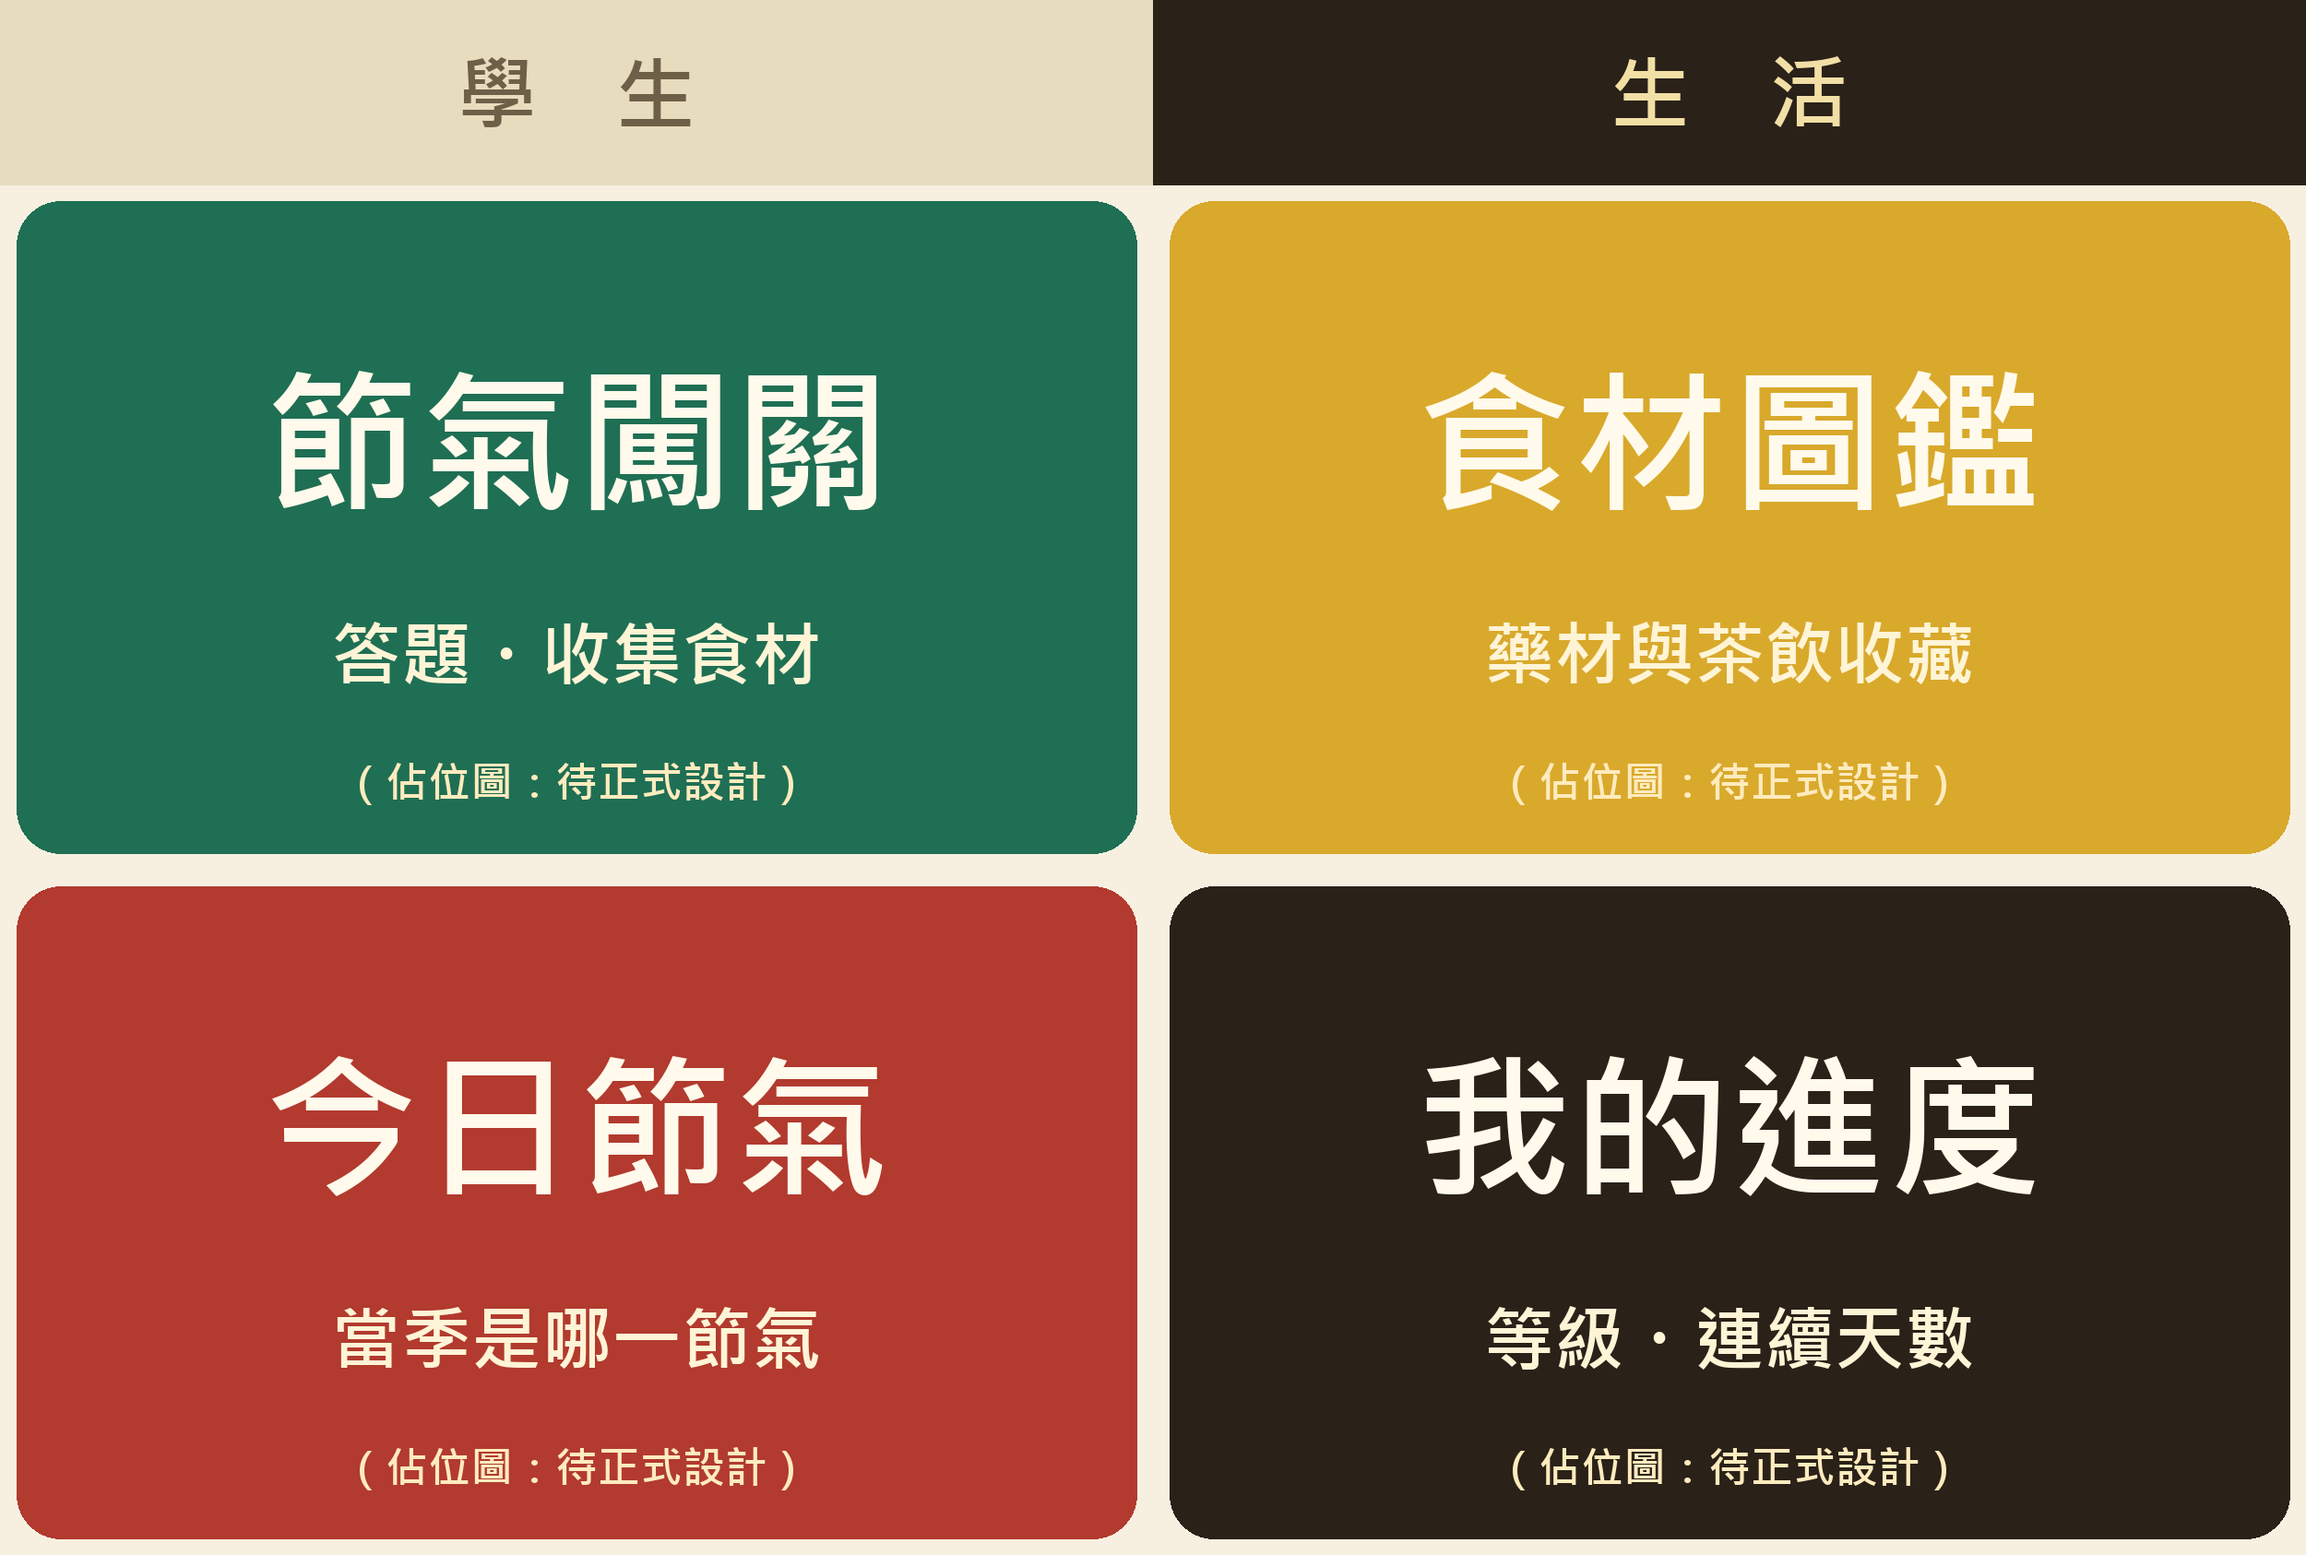
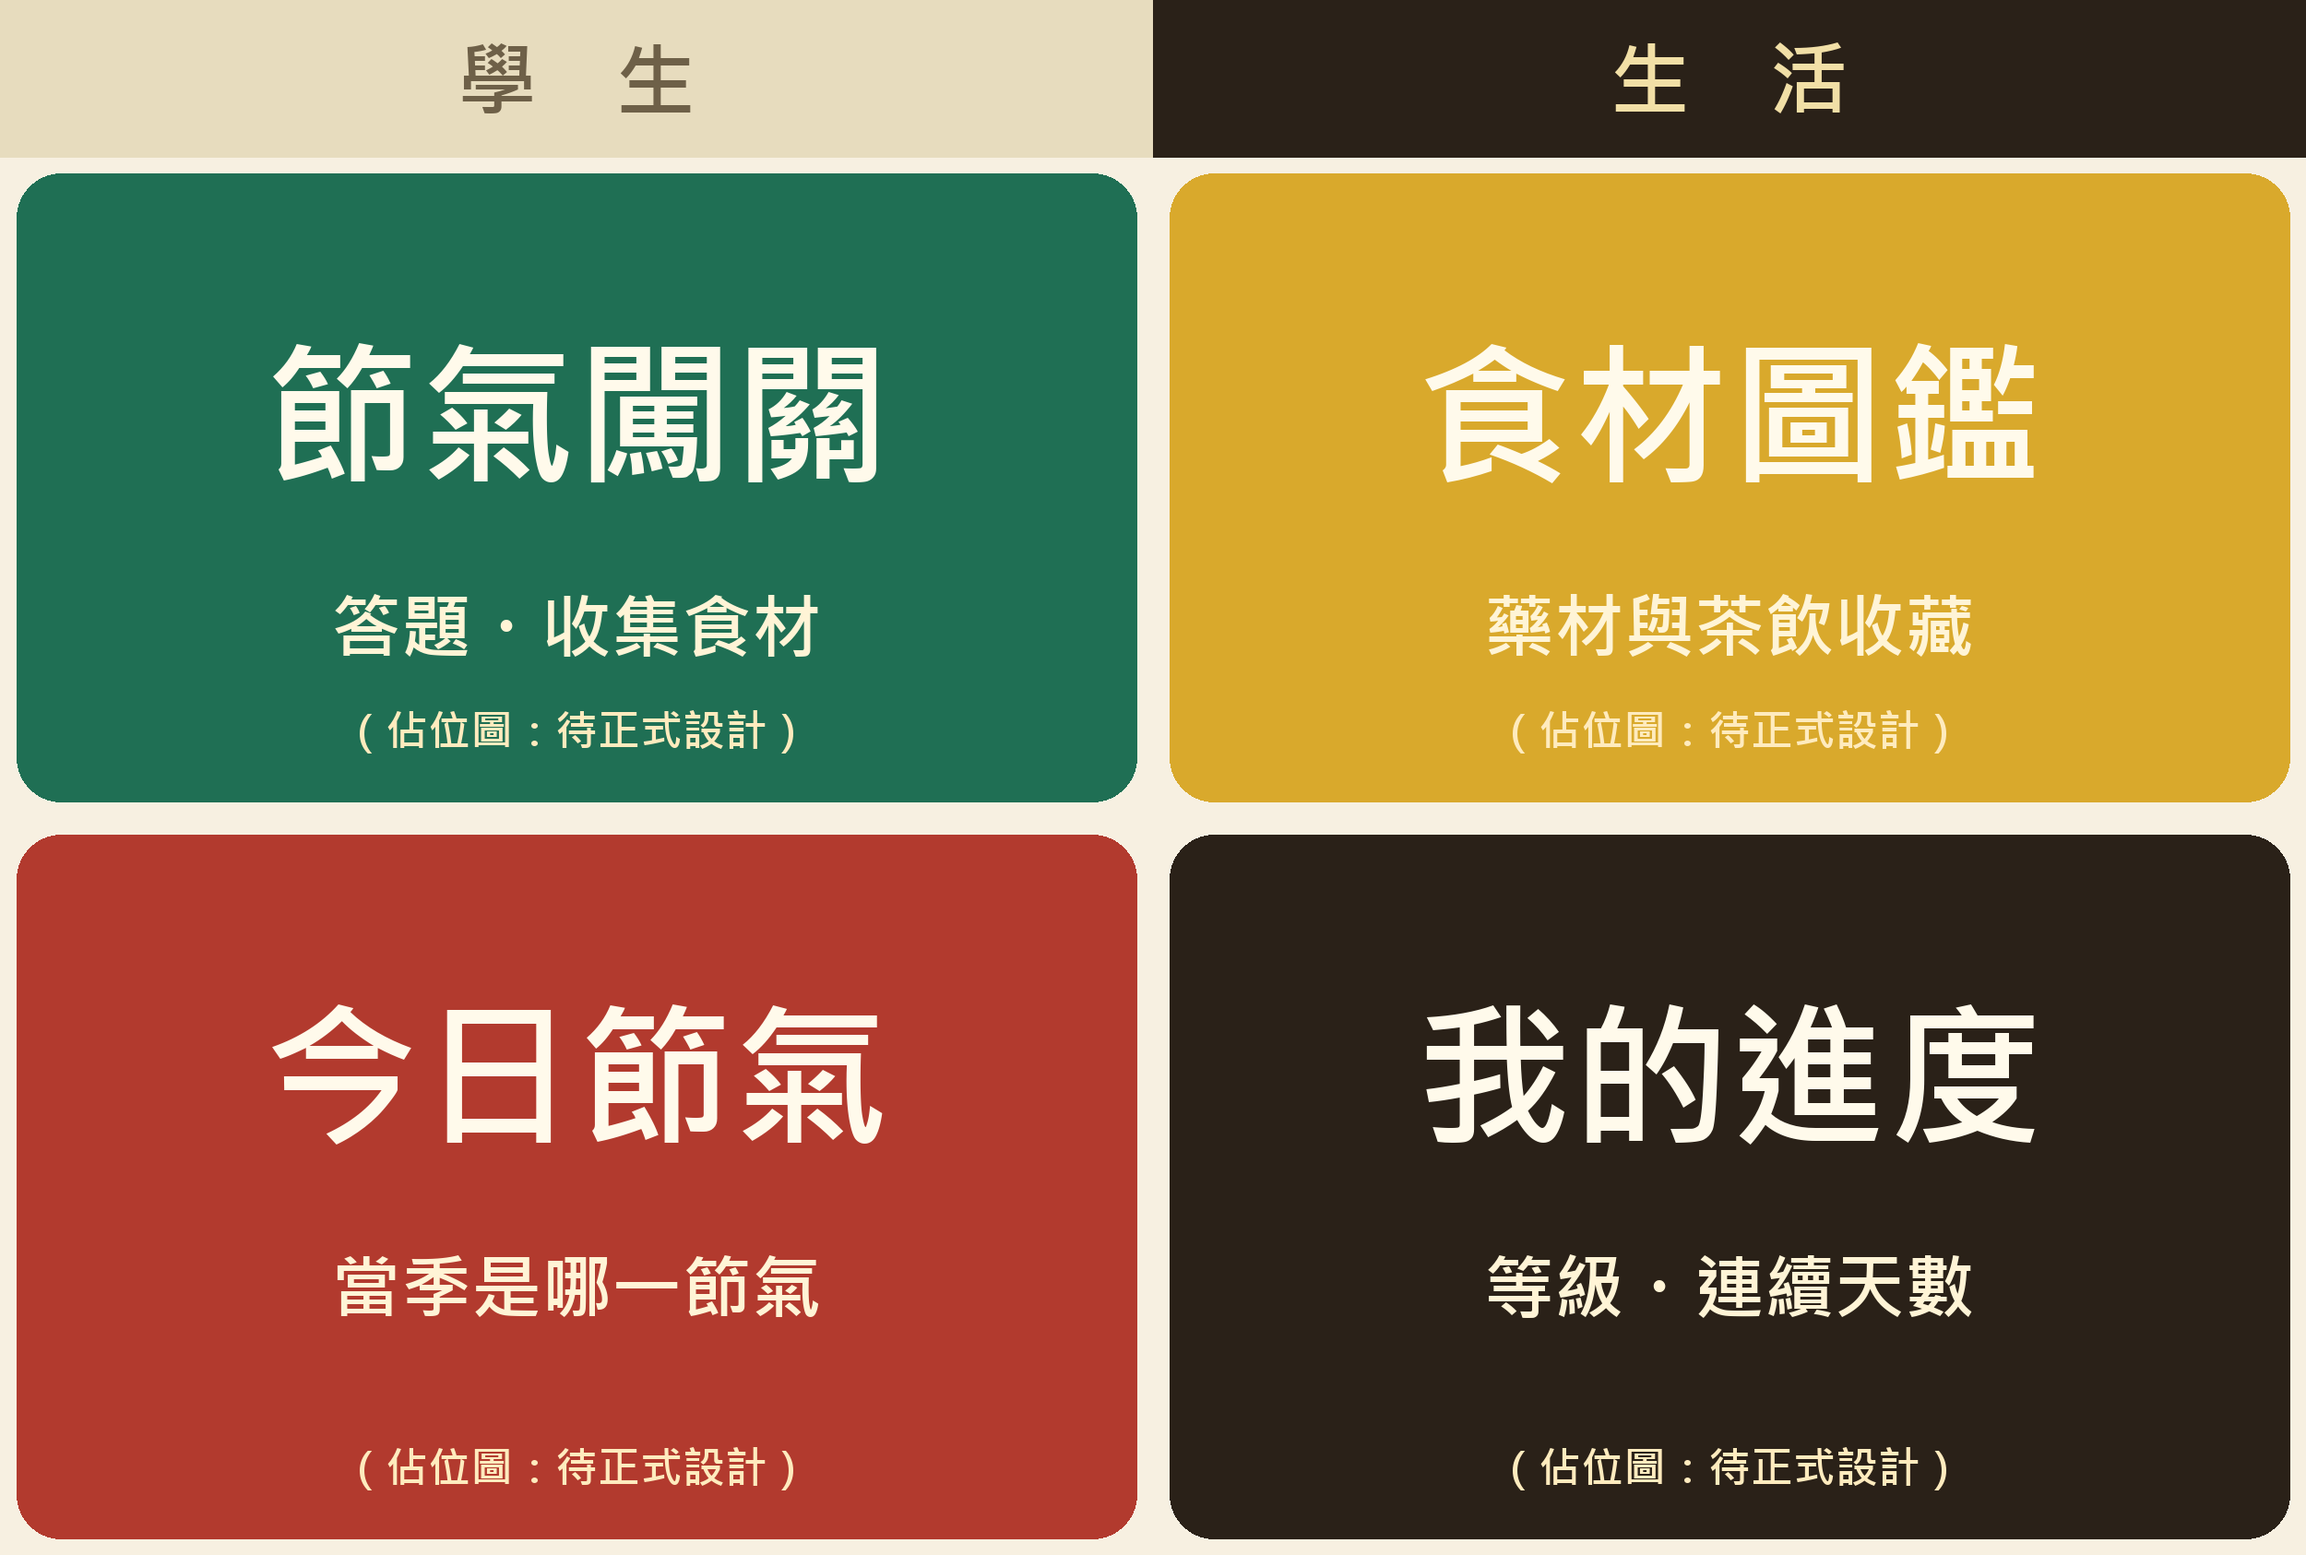
feat: 正式版 Rich Menu 圖（生活版／學生版）與合成腳本
- 新增 scripts/compose_rich_menu.py：把 AI 生成的無字背景圖縮放到 2500x1686、疊上中文標題，輸出 JPEG（< 1MB）
- setup_rich_menu_tabs.js：優先使用 .jpg 並檢查 1MB 上限；觸控範圍改為與正式圖一致（分頁列 0–170、兩列分界 887）
- 佔位圖產生器同步新版面；加入兩張背景原圖與成品

diff --git a/scripts/setup_rich_menu_tabs.js b/scripts/setup_rich_menu_tabs.js
@@ -9,8 +9,8 @@
  * 不想動到正式帳號時，先用 `--dry-run` 看會做什麼：node scripts/setup_rich_menu_tabs.js --dry-run
  *
  * 版面（2500×1686，需與 make_rich_menu_placeholders.py 一致）：
- *   y 0–200   分頁列：左半「學生」、右半「生活」
- *   y 200–1686 2×2 按鈕，每格 1250×743
+ *   y 0–170   分頁列：左半「學生」、右半「生活」
+ *   y 170–1686 2×2 按鈕：第一列 y 170–887、第二列 y 887–1686，每格寬 1250
  */
 const line = require('@line/bot-sdk');
 const dotenv = require('dotenv');
@@ -35,12 +35,15 @@ const LIFF = {
 
 const ALIAS = { life: 'richmenu-alias-life', student: 'richmenu-alias-student' };
 const NAME = { life: 'GM_life', student: 'GM_student' };
-const W = 2500, H = 1686, TAB_H = 200, CW = W / 2, CH = (H - TAB_H) / 2;
+// 觸控範圍需與 scripts/compose_rich_menu.py 的版面一致：分頁列 y 0–170；第一列 y 170–887、第二列 y 887–1686
+const W = 2500, H = 1686, TAB_H = 170, ROW_SPLIT = 887, CW = W / 2;
+const ROWS = [{ y: TAB_H, h: ROW_SPLIT - TAB_H }, { y: ROW_SPLIT, h: H - ROW_SPLIT }];
 
 const liffUri = (id, query) => `https://liff.line.me/${id}${query ? '?' + query : ''}`;
 
 function cell(i, action) {
-    return { bounds: { x: (i % 2) * CW, y: TAB_H + Math.floor(i / 2) * CH, width: CW, height: CH }, action };
+    const row = ROWS[Math.floor(i / 2)];
+    return { bounds: { x: (i % 2) * CW, y: row.y, width: CW, height: row.h }, action };
 }
 
 function tabs() {
@@ -95,9 +98,16 @@ async function removeOld() {
 async function main() {
     const images = {};
     for (const key of Object.keys(MENUS)) {
-        const p = path.join(__dirname, '..', 'assets', 'rich_menu', `${key}.png`);
+        // 優先用正式設計圖 .jpg（scripts/compose_rich_menu.py 產生，LINE 限制 1MB），沒有再用佔位 .png
+        const dir = path.join(__dirname, '..', 'assets', 'rich_menu');
+        const jpg = path.join(dir, `${key}.jpg`), png = path.join(dir, `${key}.png`);
+        const p = fs.existsSync(jpg) ? jpg : png;
         if (!fs.existsSync(p)) {
-            console.error(`找不到圖片 ${p}，請先執行：python scripts/make_rich_menu_placeholders.py`);
+            console.error(`找不到圖片 ${jpg}（或 ${png}），請先執行：python scripts/compose_rich_menu.py 或 python scripts/make_rich_menu_placeholders.py`);
+            process.exit(1);
+        }
+        if (fs.statSync(p).size > 1024 * 1024) {
+            console.error(`${p} 超過 LINE 的 1MB 限制`);
             process.exit(1);
         }
         images[key] = p;
@@ -115,7 +125,7 @@ async function main() {
     const ids = {};
     for (const [key, menu] of Object.entries(MENUS)) {
         ids[key] = await client.createRichMenu(menu);
-        await client.setRichMenuImage(ids[key], fs.readFileSync(images[key]), 'image/png');
+        await client.setRichMenuImage(ids[key], fs.readFileSync(images[key]), images[key].endsWith('.jpg') ? 'image/jpeg' : 'image/png');
         await client.createRichMenuAlias(ids[key], ALIAS[key]);
         console.log(`已建立 ${menu.name} -> ${ids[key]}（alias ${ALIAS[key]}）`);
     }

diff --git a/scripts/compose_rich_menu.py b/scripts/compose_rich_menu.py
@@ -1,0 +1,105 @@
+# -*- coding: utf-8 -*-
+"""
+把 AI 生成的 Rich Menu 背景圖（無文字）合成最終選單圖：縮放到 2500x1686、疊上中文標題、輸出 JPEG（LINE 限制 1MB 以內）。
+
+輸入（放在 assets/rich_menu/，檔名開頭符合即可，例如 life_raw.png 或 life_raw.png.png）：
+    life_raw*   生活版背景
+    student_raw* 學生版背景
+輸出：
+    assets/rich_menu/life.jpg、student.jpg   （setup_rich_menu_tabs.js 會優先使用 .jpg）
+
+版面（與 setup_rich_menu_tabs.js 的觸控範圍一致，兩邊改的時候要一起改）：
+    分頁列 y 0–170（左半＝學生、右半＝生活），2×2 按鈕：第一列 y 170–887、第二列 y 887–1686，左右各 1250 寬
+用法：python scripts/compose_rich_menu.py
+"""
+import glob
+import os
+
+from PIL import Image, ImageDraw, ImageFont
+
+W, H = 2500, 1686
+TAB_H, ROW_SPLIT, COL_SPLIT = 170, 887, 1250
+DIR = os.path.join(os.path.dirname(os.path.dirname(os.path.abspath(__file__))), "assets", "rich_menu")
+
+SERIF_CANDIDATES = [r"C:\Windows\Fonts\NotoSerifTC-VF.ttf", r"C:\Windows\Fonts\msjhbd.ttc",
+                    "/usr/share/fonts/opentype/noto/NotoSerifCJK-Bold.ttc"]
+SANS_CANDIDATES = [r"C:\Windows\Fonts\NotoSansTC-VF.ttf", r"C:\Windows\Fonts\msjh.ttc",
+                   "/usr/share/fonts/opentype/noto/NotoSansCJK-Regular.ttc"]
+
+INK, MUTE, GOLD, CREAM = (42, 33, 24), (120, 104, 78), (217, 169, 44), (247, 240, 225)
+JADE, CIN = (31, 111, 84), (178, 58, 46)
+
+MENUS = {
+    "life": {
+        "active": "life",
+        "cells": [("節氣闖關", "答題・收集食材", JADE), ("食材圖鑑", "藥材與茶飲收藏", (150, 110, 10)),
+                  ("今日節氣", "當季是哪一節氣", CIN), ("我的進度", "等級・連續天數", INK)],
+    },
+    "student": {
+        "active": "student",
+        "cells": [("國考刷題", "題庫・錯題本", JADE), ("英文口說", "病患・教授情境", (150, 110, 10)),
+                  ("英文寫作", "即時標註・批改", CIN), ("藥材圖鑑", "方劑合成收集", INK)],
+    },
+}
+
+
+def load_font(cands, size, weight="Bold"):
+    for p in cands:
+        if os.path.exists(p):
+            try:
+                f = ImageFont.truetype(p, size)
+                try:
+                    f.set_variation_by_name(weight)
+                except Exception:
+                    pass
+                return f
+            except Exception:
+                continue
+    return ImageFont.load_default()
+
+
+def find_raw(name):
+    hits = sorted(glob.glob(os.path.join(DIR, f"{name}_raw*")))
+    return hits[0] if hits else None
+
+
+def draw_text(d, xy, text, font, fill, anchor="ls", stroke=0, stroke_fill=None):
+    d.text(xy, text, font=font, fill=fill, anchor=anchor, stroke_width=stroke, stroke_fill=stroke_fill)
+
+
+def compose(name, spec):
+    src = find_raw(name)
+    if not src:
+        print(f"找不到 {name}_raw*，略過")
+        return
+    im = Image.open(src).convert("RGB").resize((W, H), Image.LANCZOS)
+    d = ImageDraw.Draw(im)
+    # 分頁列文字（左＝學生、右＝生活）
+    tab_font = load_font(SERIF_CANDIDATES, 84)
+    for key, label, cx in (("student", "學　生", COL_SPLIT // 2), ("life", "生　活", COL_SPLIT + COL_SPLIT // 2)):
+        active = key == spec["active"]
+        draw_text(d, (cx, 80), label, tab_font, CREAM if active else MUTE, anchor="mm")
+    # 四個按鈕：標題＋副標，靠左、垂直置中偏下，避開左上角裝飾與右下角吉祥物
+    rows = [(TAB_H, ROW_SPLIT), (ROW_SPLIT, H)]
+    title_font = load_font(SERIF_CANDIDATES, 176)
+    sub_font = load_font(SANS_CANDIDATES, 70, "Medium")
+    for i, (title, sub, color) in enumerate(spec["cells"]):
+        col, row = i % 2, i // 2
+        x0 = col * COL_SPLIT
+        y0, y1 = rows[row]
+        # 視覺卡片的內縮邊界（圖上卡片外框約離邊界 1–2%）
+        left = x0 + int(COL_SPLIT * 0.115)
+        cy = y0 + int((y1 - y0) * (0.70 if row == 0 else 0.60))   # 偏下：避開左上角裝飾，標題落在左下空白區；第二列卡片較矮，要再往上一點
+        draw_text(d, (left, cy), title, title_font, color, anchor="ls", stroke=4, stroke_fill=(253, 248, 235))
+        draw_text(d, (left + 6, cy + 112), sub, sub_font, (90, 76, 54), anchor="ls", stroke=3, stroke_fill=(253, 248, 235))
+    out = os.path.join(DIR, f"{name}.jpg")
+    for q in (92, 88, 84, 80, 74, 68):
+        im.save(out, "JPEG", quality=q, optimize=True, progressive=True)
+        if os.path.getsize(out) <= 950 * 1024:
+            break
+    print(out, im.size, os.path.getsize(out) // 1024, "KB (quality", q, ")")
+
+
+if __name__ == "__main__":
+    for k, v in MENUS.items():
+        compose(k, v)

diff --git a/scripts/make_rich_menu_placeholders.py b/scripts/make_rich_menu_placeholders.py
@@ -14,7 +14,7 @@ import os
 
 from PIL import Image, ImageDraw, ImageFont
 
-W, H, TAB_H = 2500, 1686, 200
+W, H, TAB_H, ROW_SPLIT = 2500, 1686, 170, 887
 OUT = os.path.join(os.path.dirname(os.path.dirname(os.path.abspath(__file__))), "assets", "rich_menu")
 
 FONT_CANDIDATES = [
@@ -65,9 +65,12 @@ def build(name, spec):
         d.rectangle(box, fill=INK if active else (231, 220, 190))
         center(d, box, label, font(86), (241, 223, 166) if active else (110, 96, 72))
     # 2x2 按鈕
-    cw, ch = W // 2, (H - TAB_H) // 2
+    cw = W // 2
+    rows = [(TAB_H, ROW_SPLIT), (ROW_SPLIT, H)]
     for i, (title, sub, color) in enumerate(spec["cells"]):
-        x, y = (i % 2) * cw, TAB_H + (i // 2) * ch
+        y, y_end = rows[i // 2]
+        ch = y_end - y
+        x = (i % 2) * cw
         pad = 18
         box = (x + pad, y + pad, x + cw - pad, y + ch - pad)
         d.rounded_rectangle(box, radius=48, fill=color)
